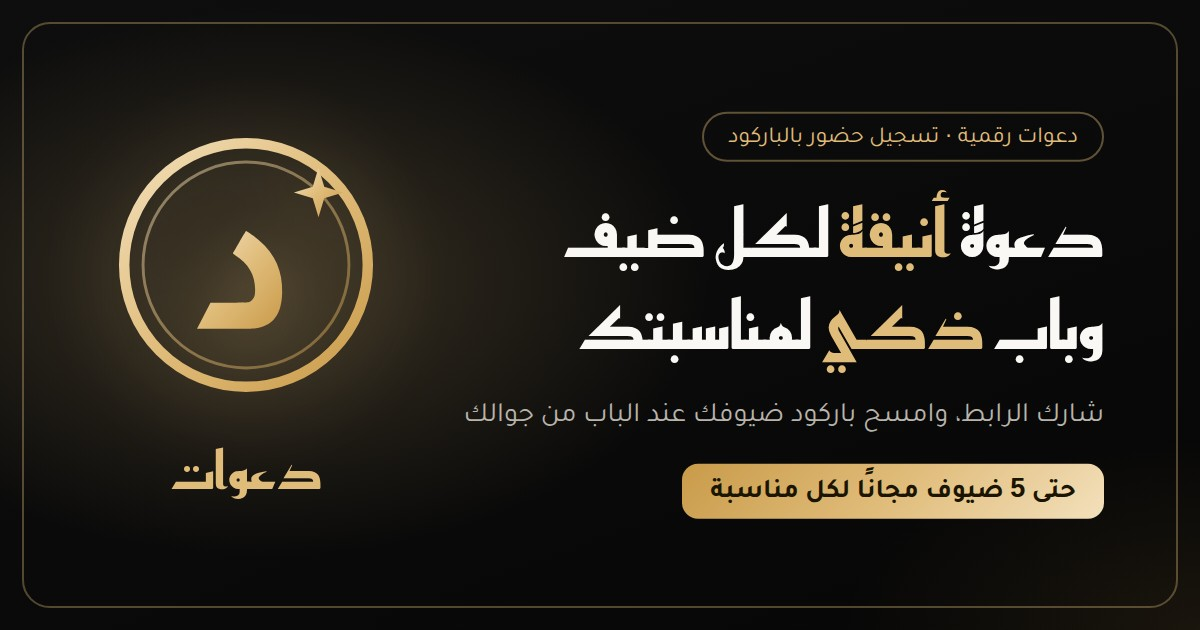
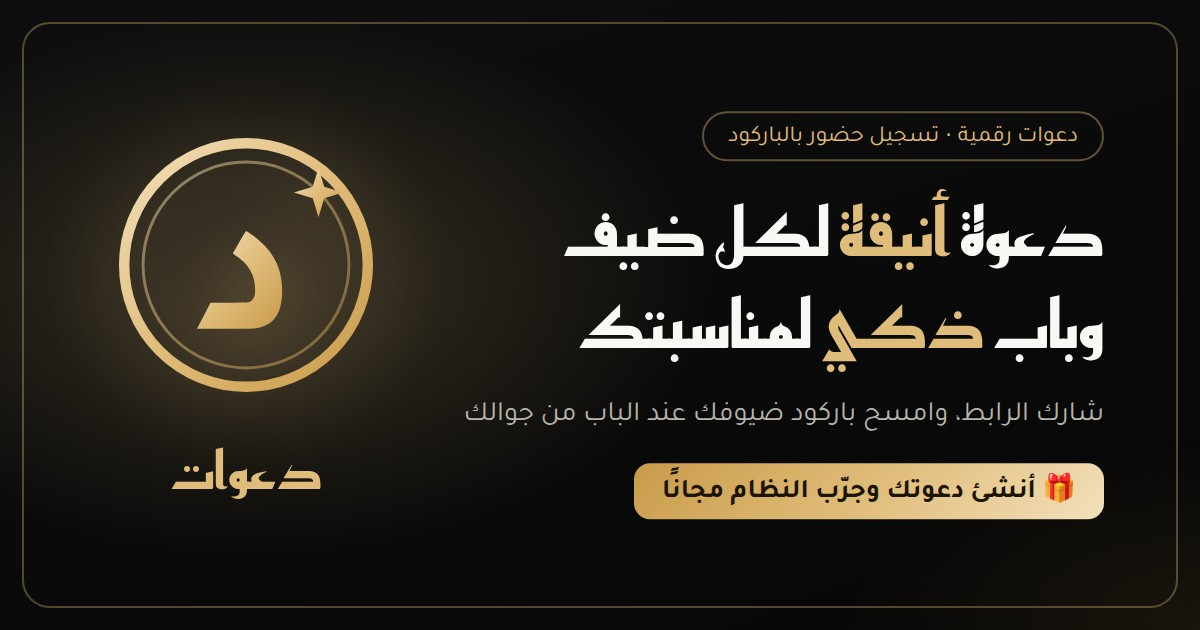
Hero badge and link-preview image: invite people to try, not a guest count
The gold badge under the main button, and the same badge drawn into
icons/og-image.jpg (the WhatsApp/social preview), now read
'🎁 أنشئ دعوتك وجرّب النظام مجانًا' instead of the old
'حتى 5 ضيوف مجانًا لكل مناسبة'. The 'no fees' and '5 guests' wording stays
in the price section, the link-preview text and the sign-up note.

The preview image is 1200x630 and 79 KB. New specs: the hero badge text, and
the image's size and weight (WhatsApp skips heavy previews).

Claude-Session: https://claude.ai/code/session_01KP51boGnzA2sZFJ4pkECbK

diff --git a/tests/landing.spec.js b/tests/landing.spec.js
@@ -68,7 +68,8 @@ test('the free-tier reassurance says "no fees", never the ambiguous "no card", o
     expect(src, f + ' should not say "بدون بطاقة"').not.toContain('بدون بطاقة');
   }
   await page.goto('/index.html');
-  await expect(page.locator('.trial-note')).toContainText('بدون دفع رسوم');
+  // The hero badge is the invitation to try; the "no fees" wording lives in the price section, the link preview and the sign-up note.
+  await expect(page.locator('.trial-note')).toHaveText('🎁 أنشئ دعوتك وجرّب النظام مجانًا');
   await expect(page.locator('.price-card')).toContainText('بدون دفع رسوم');
   expect(await page.locator('meta[property="og:description"]').getAttribute('content')).toContain('بدون دفع رسوم');
   await page.goto('/guide.html');
@@ -179,4 +180,20 @@ test('in the in-between tablet width the cards stay in one readable column', asy
   await page.goto('/index.html');
   const lefts = await page.locator('.features .feature').evaluateAll(els => els.map(e => Math.round(e.getBoundingClientRect().left)));
   expect(new Set(lefts).size).toBe(1);
+});
+
+// The link preview image: what WhatsApp and friends fetch. It has to be the
+// size the og:image tags promise and light enough that WhatsApp does not skip it.
+test('the link-preview image is 1200x630 and small enough for WhatsApp', () => {
+  const buf = require('fs').readFileSync(repoFile('icons/og-image.jpg'));
+  expect(buf.length).toBeLessThan(300 * 1024);
+  // Read the size from the JPEG's start-of-frame marker.
+  let i = 2, w = 0, h = 0;
+  while (i < buf.length) {
+    if (buf[i] !== 0xFF) { i++; continue; }
+    const marker = buf[i + 1];
+    if (marker >= 0xC0 && marker <= 0xCF && marker !== 0xC4 && marker !== 0xC8 && marker !== 0xCC) { h = buf.readUInt16BE(i + 5); w = buf.readUInt16BE(i + 7); break; }
+    i += 2 + buf.readUInt16BE(i + 2);
+  }
+  expect([w, h]).toEqual([1200, 630]);
 });

diff --git a/index.html b/index.html
@@ -177,7 +177,7 @@ setTimeout(() => {
     <h1>دعوة <span>أنيقة</span> لكل ضيف<br>وباب <span>ذكي</span> لمناسبتك</h1>
     <p>أنشئ صفحة دعوة رقمية بدقيقتين، شارك الرابط مع ضيوفك، وامسح باركودهم عند الباب — بدون ورق، بدون تعقيد.</p>
     <a class="btn-primary" href="app.html">ابدأ الآن</a>
-    <div class="trial-note">🎁 حتى 5 ضيوف مجانًا لكل مناسبة — بدون دفع رسوم</div>
+    <div class="trial-note">🎁 أنشئ دعوتك وجرّب النظام مجانًا</div>
     <div class="btn-row">
       <a class="btn-outline" href="invite.html?demo=1">👀 جرّب نموذج حي</a>
       <a class="btn-outline btn-wa" href="https://wa.me/966546664459?text=%D8%A7%D9%84%D8%B3%D9%84%D8%A7%D9%85%20%D8%B9%D9%84%D9%8A%D9%83%D9%85%D8%8C%20%D8%A3%D8%A8%D8%BA%D9%89%20%D8%A3%D8%B9%D8%B1%D9%81%20%D8%A3%D9%83%D8%AB%D8%B1%20%D8%B9%D9%86%20%D8%AE%D8%AF%D9%85%D8%A9%20%D8%AF%D8%B9%D9%88%D8%A7%D8%AA%20%D9%88%D9%83%D9%8A%D9%81%20%D8%A3%D8%A8%D8%AF%D8%A3." target="_blank" rel="noopener" data-wa="general">💬 كلّمنا على واتساب</a>
